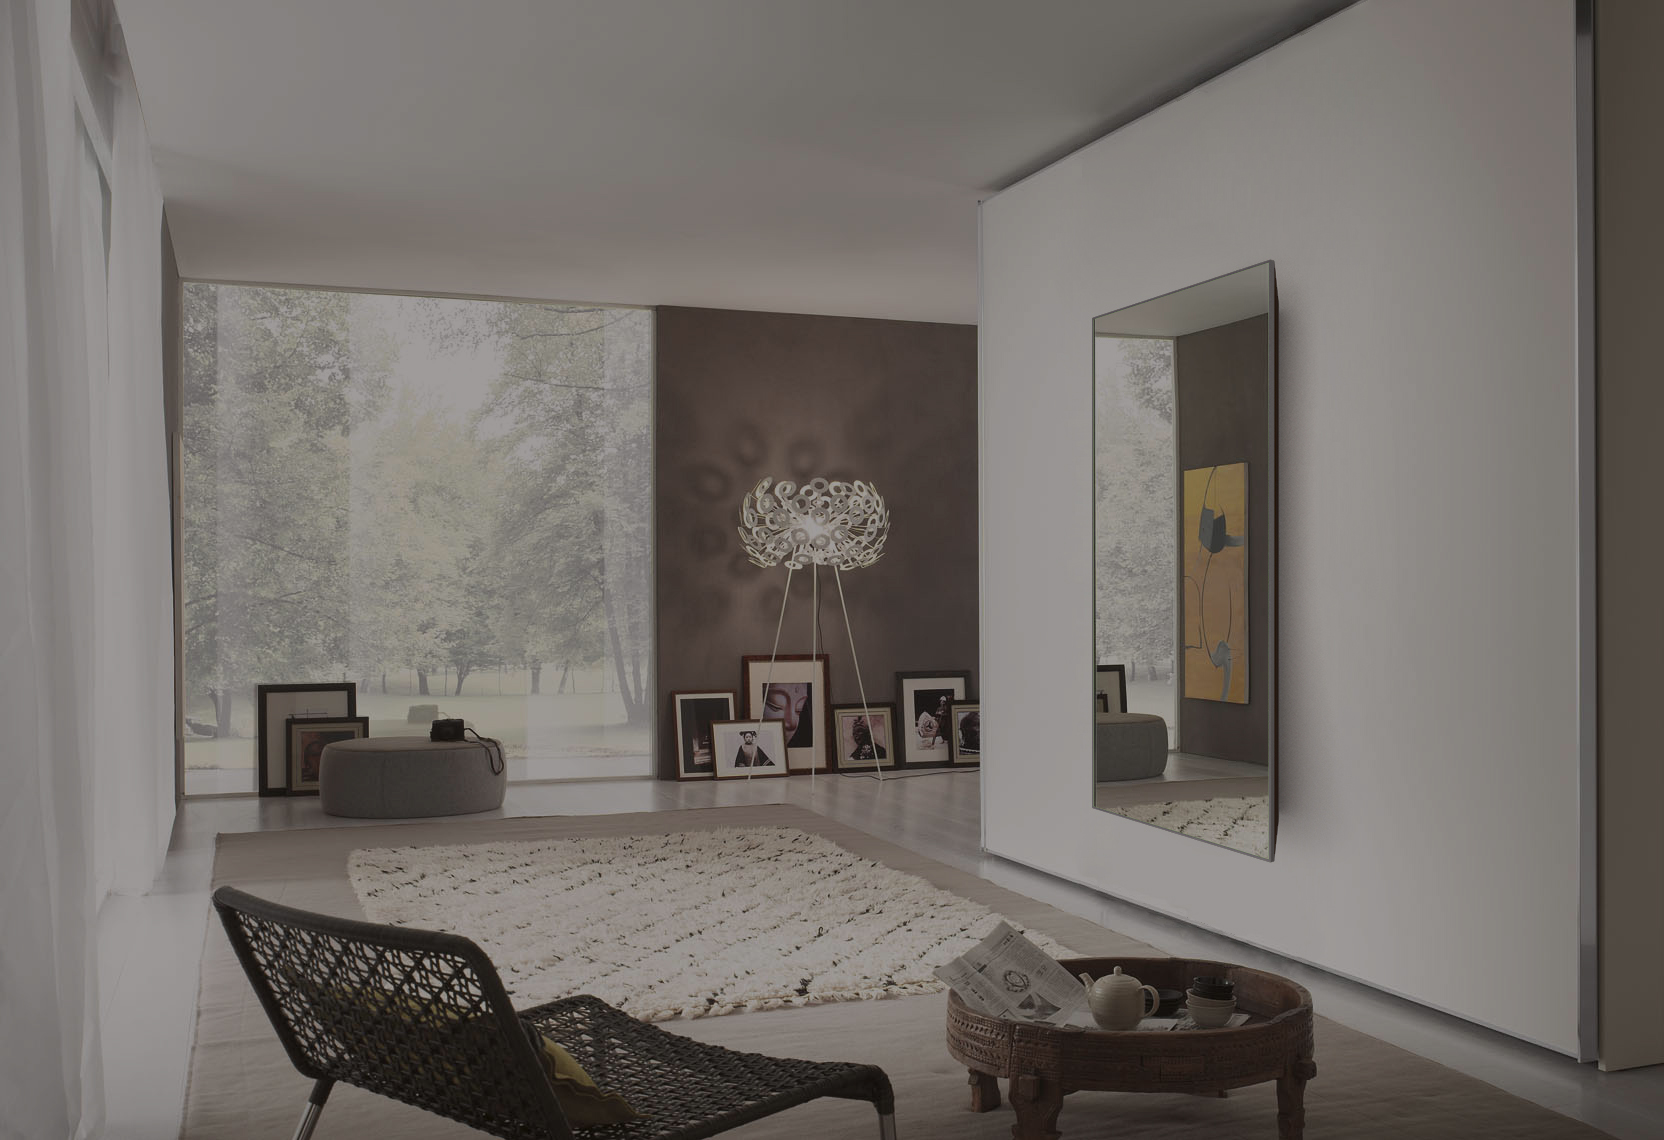
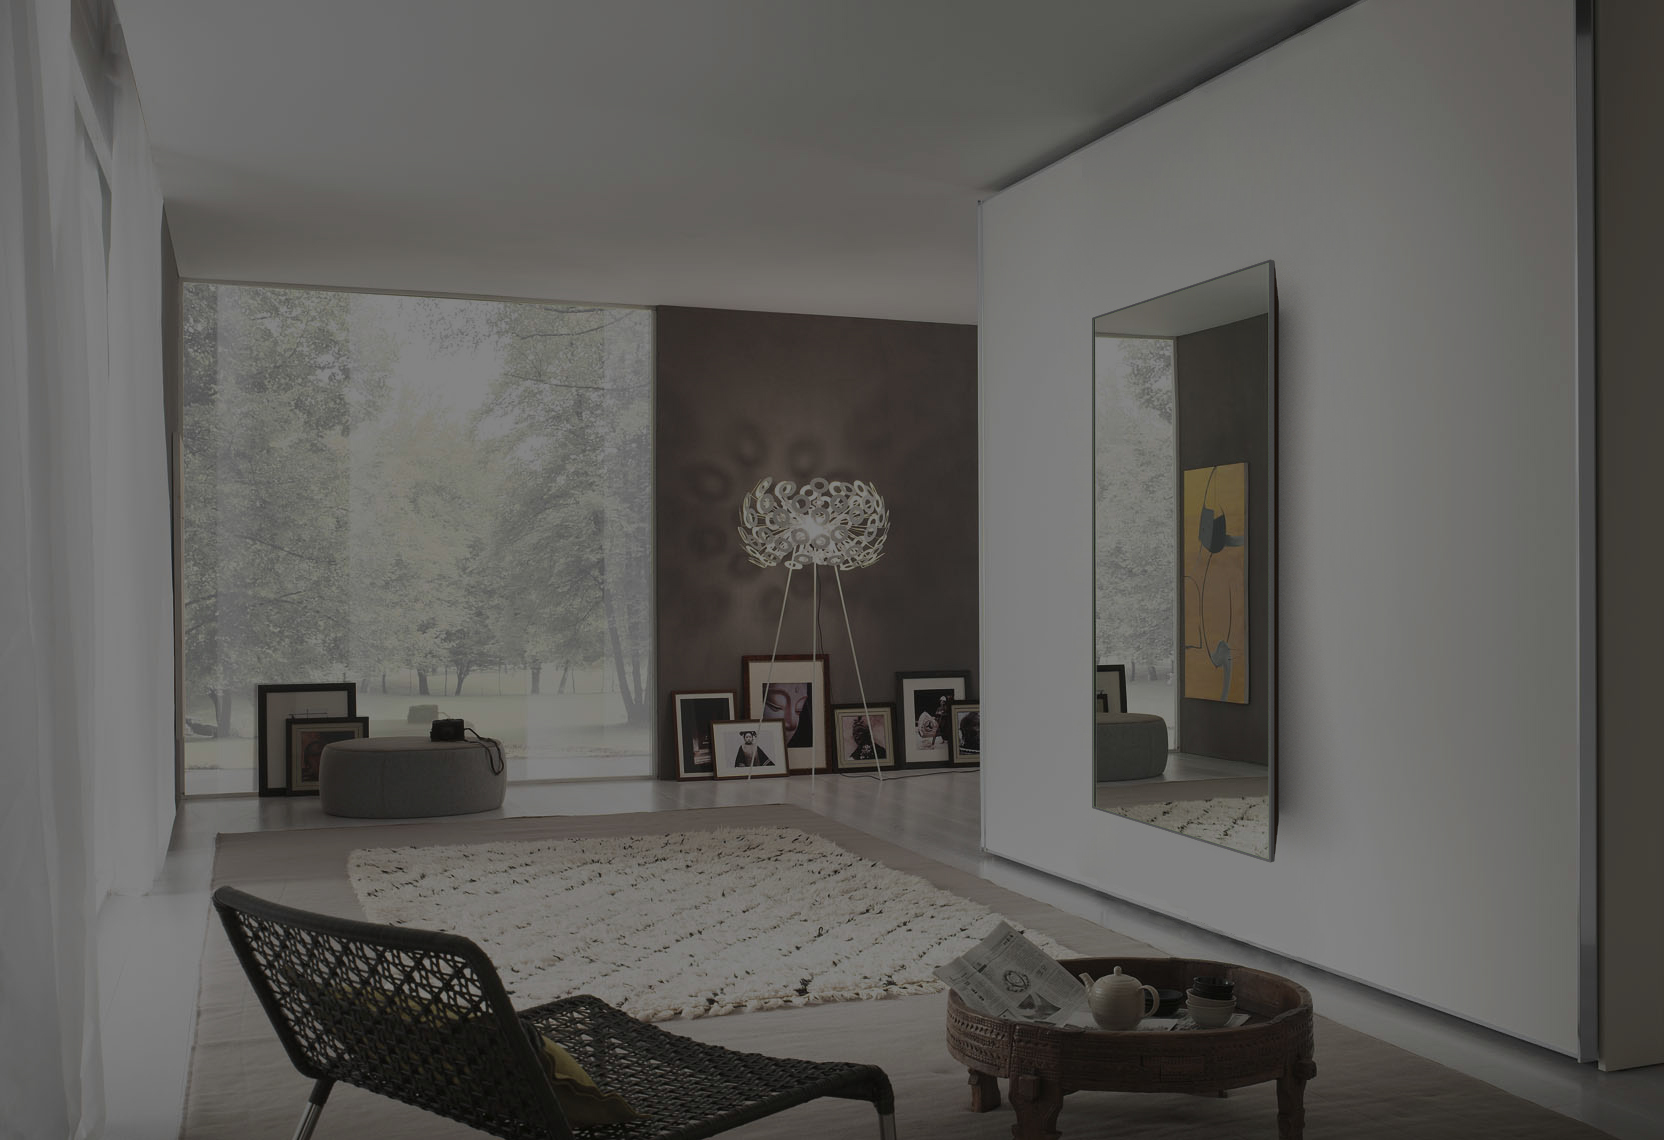
Added unique index for user hashes

diff --git a/app/assets/stylesheets/signup_queues.scss b/app/assets/stylesheets/signup_queues.scss
@@ -8,7 +8,7 @@ body {
 .main {
   width: 100%;
   height: 100vh;
-  background-image: url(/assets/signup_queues/livingroom.jpg);
+  background-image: url(/assets/signup_queues/livingroom_mini.jpg);
   background-repeat: no-repeat;
   background-size: cover;
   background-position: center; 
@@ -16,7 +16,10 @@ body {
 }
 .main header {
   color: #fff;
-  // padding-top: 8%;
+  padding-top: 9%;
+}
+.main h2, h3 {
+  text-shadow: 2px 2px 5px #000;
 }
 .main .form-inline input[type="submit"]{
   padding: 6px 12px;

diff --git a/db/schema.rb b/db/schema.rb
@@ -10,7 +10,7 @@
 #
 # It's strongly recommended that you check this file into your version control system.
 
-ActiveRecord::Schema.define(version: 20170719141659) do
+ActiveRecord::Schema.define(version: 20170720201231) do
 
   # These are extensions that must be enabled in order to support this database
   enable_extension "plpgsql"
@@ -22,6 +22,7 @@ ActiveRecord::Schema.define(version: 20170719141659) do
     t.integer  "invited_users_count", default: 0
     t.datetime "created_at",                      null: false
     t.datetime "updated_at",                      null: false
+    t.index ["user_hash"], name: "index_signup_queues_on_user_hash", unique: true, using: :btree
   end
 
 end

diff --git a/db/migrate/20170720201231_add_user_hash_unique_index.rb b/db/migrate/20170720201231_add_user_hash_unique_index.rb
@@ -1,0 +1,5 @@
+class AddUserHashUniqueIndex < ActiveRecord::Migration[5.0]
+  def change
+    add_index :signup_queues, :user_hash, unique: true
+  end
+end
